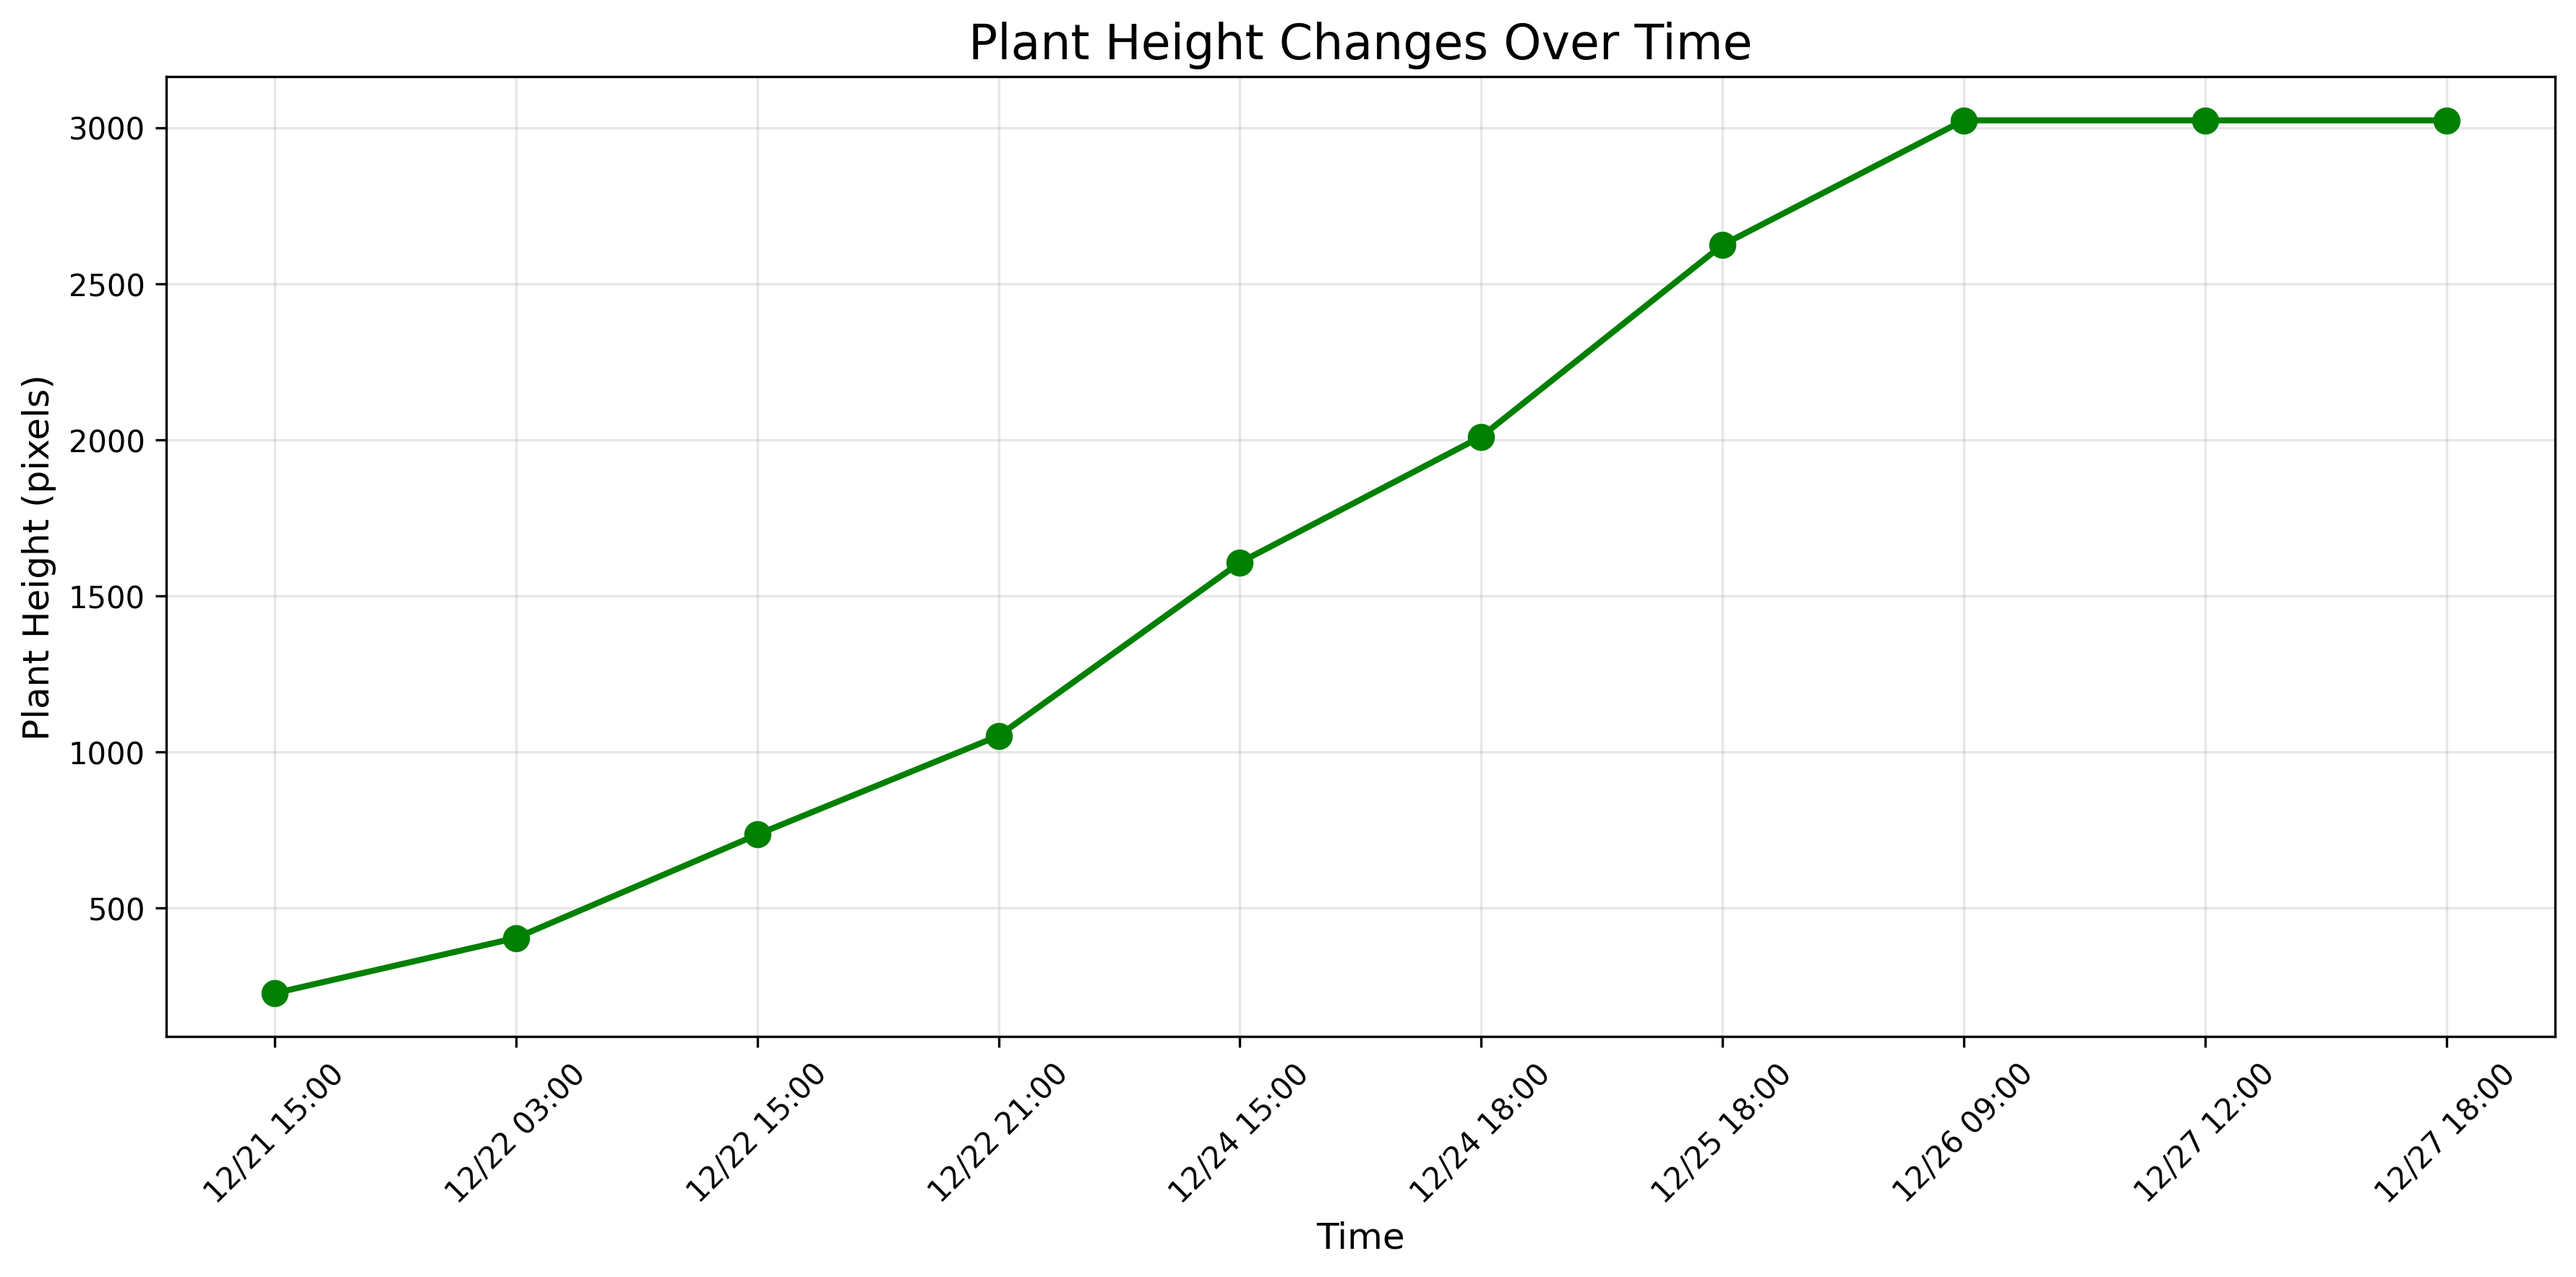
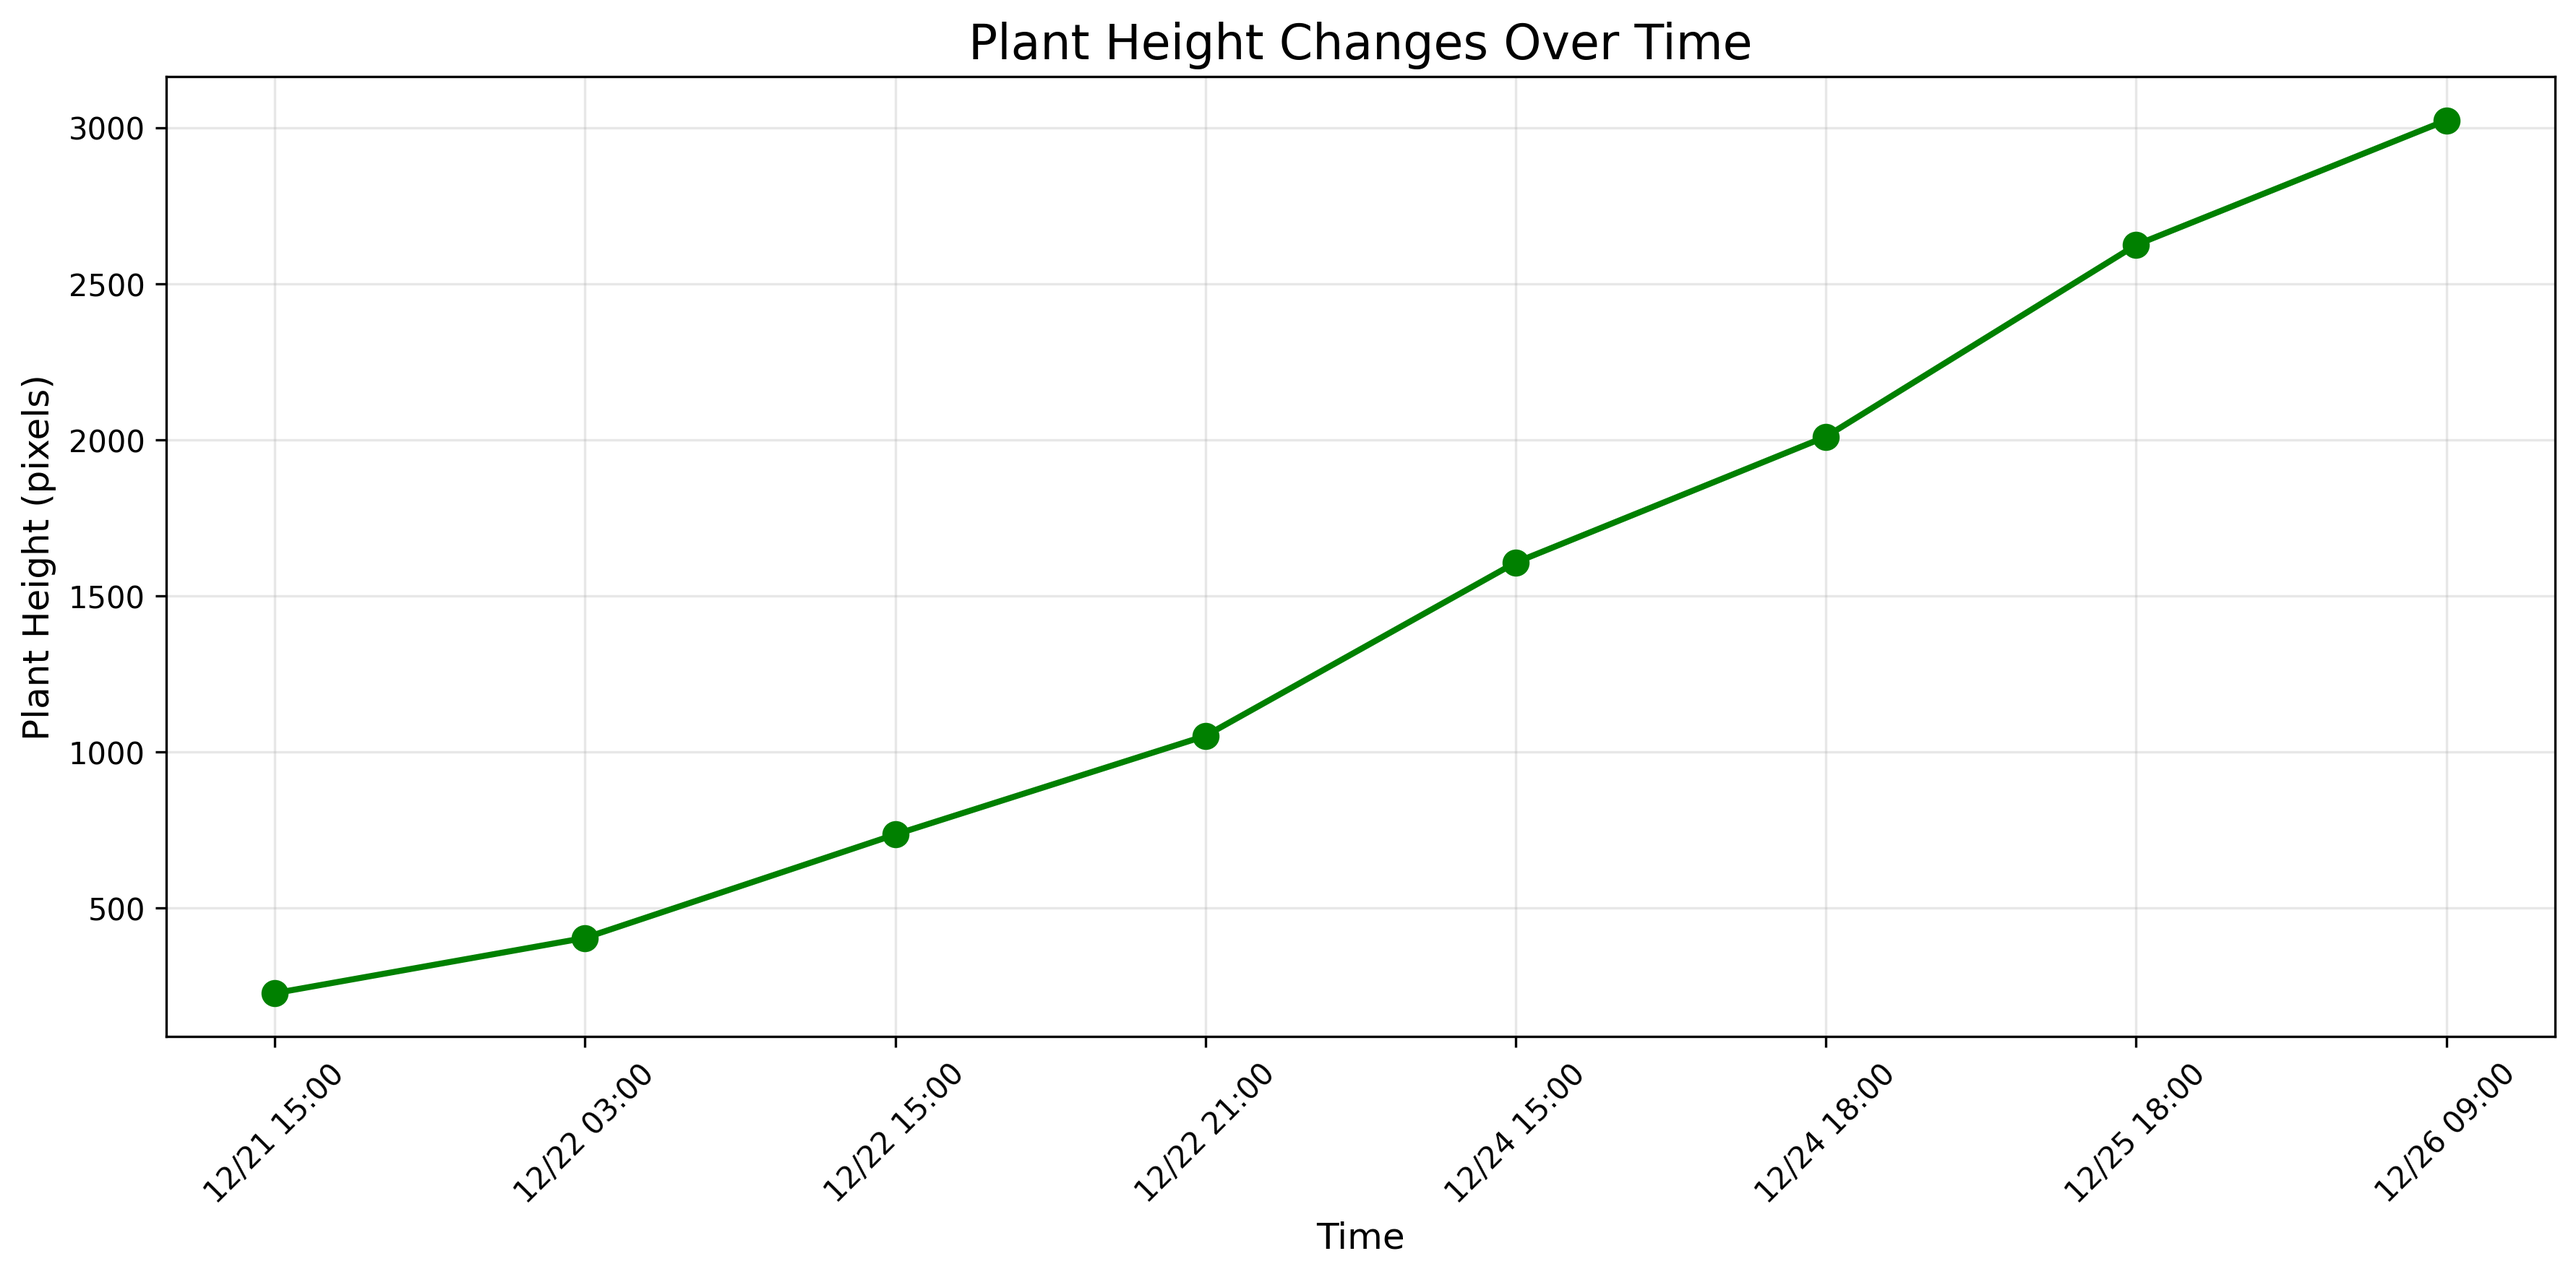
Restore Height File

diff --git a/Asset/Images/Selected images/height/results/website_integration.html b/Asset/Images/Selected images/height/results/website_integration.html
@@ -10,7 +10,7 @@
                     <th>Date</th>
                     <th>Height (px)</th>
                 </tr>
-                <tr><td>12/21 15:00</td><td>228</td></tr><tr><td>12/22 03:00</td><td>405</td></tr><tr><td>12/22 15:00</td><td>736</td></tr><tr><td>12/22 21:00</td><td>1052</td></tr><tr><td>12/24 15:00</td><td>1607</td></tr><tr><td>12/24 18:00</td><td>2010</td></tr><tr><td>12/25 18:00</td><td>2624</td></tr><tr><td>12/26 09:00</td><td>3023</td></tr><tr><td>12/27 12:00</td><td>3023</td></tr><tr><td>12/27 18:00</td><td>3023</td></tr>
+                <tr><td>12/21 15:00</td><td>228</td></tr><tr><td>12/22 03:00</td><td>405</td></tr><tr><td>12/22 15:00</td><td>736</td></tr><tr><td>12/22 21:00</td><td>1052</td></tr><tr><td>12/24 15:00</td><td>1607</td></tr><tr><td>12/24 18:00</td><td>2010</td></tr><tr><td>12/25 18:00</td><td>2624</td></tr><tr><td>12/26 09:00</td><td>3023</td></tr>
             </table>
         </div>
     </div>

diff --git a/Tests/Plant_Height.py b/Tests/Plant_Height.py
@@ -1,8 +1,11 @@
+import os
 import cv2
 import numpy as np
+import datetime
+import re
+import matplotlib.pyplot as plt
 
-
-def measure_plant_height(image_path):
+def measure_plant_height(image_path, display=True):
     # Load the image
     image = cv2.imread(image_path)
     if image is None:
@@ -27,7 +30,7 @@ def measure_plant_height(image_path):
     # Combine masks
     plant_mask = cv2.bitwise_or(green_mask, yellow_mask)
 
-    # Clean the mask (smaller kernel for thin seedlings)
+    # Clean the mask
     kernel_small = np.ones((2, 2), np.uint8)
     kernel_large = np.ones((5, 5), np.uint8)
     plant_mask = cv2.morphologyEx(plant_mask, cv2.MORPH_OPEN, kernel_small)
@@ -37,7 +40,7 @@ def measure_plant_height(image_path):
     contours, _ = cv2.findContours(plant_mask, cv2.RETR_EXTERNAL, cv2.CHAIN_APPROX_SIMPLE)
 
     if not contours:
-        print("No plant detected!")
+        print(f"No plant detected in {image_path}!")
         return None
 
     # Find the plant contour
@@ -46,157 +49,99 @@ def measure_plant_height(image_path):
     # Get plant bounding rectangle
     x, y, w, h = cv2.boundingRect(plant_contour)
 
-    # Check if this is a small seedling (for different processing)
-    is_small_plant = h < height * 0.2
+    # Get plant top and bottom points more precisely
+    # This helps get a more accurate height measurement
+    hull = cv2.convexHull(plant_contour)
+    top_y = min(point[0][1] for point in hull)
+    bottom_y = max(point[0][1] for point in hull)
 
-    # Get plant top (y-coordinate)
-    top_y = y
+    # Calculate actual plant height (either using bounding box or hull points)
+    plant_height = bottom_y - top_y
 
-    # Find plant center
-    M = cv2.moments(plant_contour)
-    if M["m00"] != 0:
-        center_x = int(M["m10"] / M["m00"])
-    else:
-        center_x = x + w // 2
+    # If hull measurement seems incorrect, fall back to bounding box
+    if plant_height < h * 0.7:
+        plant_height = h
 
-    # STEP 2: SPECIALIZED SOIL DETECTION
-    gray = cv2.cvtColor(image, cv2.COLOR_BGR2GRAY)
-    blurred = cv2.GaussianBlur(gray, (5, 5), 0)
-    edges = cv2.Canny(blurred, 30, 100)
-
-    # For small seedlings in glass pots, specifically target the soil line
-    if is_small_plant:
-        # Look specifically at the top edge of soil (right where pot begins)
-        soil_line_found = False
-
-        # Use the region right below plant to search for soil
-        search_start = y + h  # Bottom of plant
-        search_end = min(search_start + 30, height)  # Only look 30px below plant
-
-        # Method 1: Look for dark soil band
-        for sy in range(search_start, search_end, 1):
-            if sy >= height:
-                continue
-
-            # Check for soil color across a horizontal band
-            soil_pixels = 0
-            for sx in range(max(0, center_x - 30), min(width, center_x + 30)):
-                if sy < height and sx < width:
-                    pixel = image[sy, sx]
-                    # Brownish soil detection (red > blue, moderate brightness)
-                    if pixel[2] > pixel[0] and np.sum(pixel) < 450 and np.sum(pixel) > 50:
-                        soil_pixels += 1
-
-            # If enough soil pixels found in row
-            if soil_pixels > 15:
-                soil_y = sy
-                soil_line_found = True
-                break
-
-        # Method 2: Look for horizontal edge (soil surface or pot rim)
-        if not soil_line_found:
-            max_edge_strength = 0
-            strongest_edge_y = None
-
-            for sy in range(search_start, search_end, 1):
-                edge_row = edges[sy, max(0, center_x - 40):min(width, center_x + 40)]
-                edge_strength = np.sum(edge_row)
-
-                if edge_strength > max_edge_strength:
-                    max_edge_strength = edge_strength
-                    strongest_edge_y = sy
-
-            if max_edge_strength > 300 and strongest_edge_y is not None:
-                soil_y = strongest_edge_y
-                soil_line_found = True
-
-        # Method 3: Look for brightness transition
-        if not soil_line_found:
-            for sy in range(search_start, search_end, 1):
-                if sy + 5 < height and sy - 5 >= 0:
-                    above = np.mean(gray[sy - 5:sy, max(0, center_x - 20):min(width, center_x + 20)])
-                    below = np.mean(gray[sy:sy + 5, max(0, center_x - 20):min(width, center_x + 20)])
-
-                    if abs(above - below) > 20:
-                        soil_y = sy
-                        soil_line_found = True
-                        break
-
-        # Fallback: Use bottom of plant + small offset
-        if not soil_line_found:
-            soil_y = y + h + 5
-    else:
-        # For taller plants, use different soil detection approach
-        soil_y = None
-
-        # Start from midpoint of plant height
-        search_start = y + h // 2
-        search_end = min(y + h + 50, height - 10)
-
-        # Look for soil using color and texture
-        for sy in range(search_start, search_end, 2):
-            if sy >= height - 5:
-                continue
-
-            # Sample window around center line
-            window = image[sy:sy + 5, max(0, center_x - 20):min(width, center_x + 20)]
-
-            # Calculate color properties
-            if window.size > 0:
-                avg_color = np.mean(window, axis=(0, 1))
-
-                # Check for soil properties
-                if avg_color[2] > avg_color[0] and np.sum(avg_color) < 500:
-                    # Verify with texture check
-                    texture_above = np.std(gray[max(0, sy - 10):sy, max(0, center_x - 20):min(width, center_x + 20)])
-                    texture_below = np.std(
-                        gray[sy:min(height, sy + 10), max(0, center_x - 20):min(width, center_x + 20)])
-
-                    if abs(texture_above - texture_below) > 5:
-                        soil_y = sy
-                        break
-
-        # Fallback for tall plants
-        if soil_y is None:
-            soil_y = y + h * 2 // 3
-
-    # Ensure plant height is reasonable (with constraints)
-    plant_height = soil_y - top_y
-
-    # Sanity check - if height is unreasonable, use bounding box with offset
-    min_reasonable = 10
-    max_reasonable = height * 0.7
-
-    if plant_height < min_reasonable or plant_height > max_reasonable:
-        if is_small_plant:
-            soil_y = y + h + 5  # Small offset for small plants
-        else:
-            soil_y = y + h * 2 // 3  # Proportional for tall plants
-        plant_height = soil_y - top_y
-
-    # Draw the measurement visualization
-    cv2.line(result_image, (center_x, top_y), (center_x, soil_y), (0, 0, 255), 2)
-    cv2.circle(result_image, (center_x, top_y), 5, (255, 0, 0), -1)
-    cv2.circle(result_image, (center_x, soil_y), 5, (255, 0, 0), -1)
-
-    # Add text with height information
-    cv2.putText(result_image, f"Plant Height: {plant_height} pixels",
-                (10, 40), cv2.FONT_HERSHEY_SIMPLEX, 1.0, (0, 0, 255), 2)
-
-    # Resize for display
-    display_scale = min(1, 800 / max(width, height))
-    resized_image = cv2.resize(result_image, None,
-                               fx=display_scale,
-                               fy=display_scale,
-                               interpolation=cv2.INTER_AREA)
-
-    # Display result
-    cv2.imshow("Plant Height", resized_image)
+    # Output the height without classification
     print(f"Plant height: {plant_height} pixels")
-    cv2.waitKey(0)
-    cv2.destroyAllWindows()
+
+    if display:
+        # Draw the measurement visualization
+        center_x = x + w // 2
+        cv2.line(result_image, (center_x, top_y), (center_x, bottom_y), (0, 0, 255), 2)
+        cv2.circle(result_image, (center_x, top_y), 5, (255, 0, 0), -1)
+        cv2.circle(result_image, (center_x, bottom_y), 5, (255, 0, 0), -1)
+        cv2.rectangle(result_image, (x, y), (x + w, y + h), (0, 255, 0), 2)
+
+        # Add text with height information
+        cv2.putText(result_image, f"Height: {plant_height}px",
+                    (10, 30), cv2.FONT_HERSHEY_SIMPLEX, 0.7, (0, 0, 255), 2)
+
+        # Save annotated image for website display
+        output_dir = os.path.join(os.path.dirname(image_path), "annotated")
+        os.makedirs(output_dir, exist_ok=True)
+        output_path = os.path.join(output_dir, os.path.basename(image_path))
+        cv2.imwrite(output_path, result_image)
+
+        # Resize for display
+        display_scale = min(1, 800 / max(width, height))
+        resized_image = cv2.resize(result_image, None,
+                                   fx=display_scale,
+                                   fy=display_scale,
+                                   interpolation=cv2.INTER_AREA)
+        # Save resized image
+        resized_dir = os.path.join(os.path.dirname(image_path), "resized")
+        os.makedirs(resized_dir, exist_ok=True)
+        resized_path = os.path.join(resized_dir, f"resized_{os.path.basename(image_path)}")
+        cv2.imwrite(resized_path, resized_image)
+
+        # Display result
+        cv2.imshow("Plant Height", resized_image)
+        cv2.waitKey(0)
+        cv2.destroyAllWindows()
 
     return plant_height
 
-# Example usage
-measure_plant_height('Asset/Images/Selected images/height/2024_12_25_06PM.JPG')
+
+def extract_date_from_filename(filename):
+    """Extract date from filename with format YYYY_MM_DD_XXAM/PM.JPG"""
+    pattern = r'(\d{4})_(\d{2})_(\d{2})_(\d{2})([AP]M)'
+    match = re.search(pattern, filename)
+
+    if match:
+        year = int(match.group(1))
+        month = int(match.group(2))
+        day = int(match.group(3))
+        hour = int(match.group(4))
+        am_pm = match.group(5)
+
+        # Adjust hour for PM
+        if am_pm == 'PM' and hour < 12:
+            hour += 12
+        elif am_pm == 'AM' and hour == 12:
+            hour = 0
+
+        # Create datetime object
+        date_obj = datetime.datetime(year, month, day, hour)
+        return date_obj, f"{month}/{day} {hour:02d}:00"
+
+    return None, None
+
+
+# Main execution
+if __name__ == "__main__":
+    # Path to a single selected image
+    image_path = "Asset/Images/Selected images/height/2024_12_26_09AM.JPG"  # Replace with your selected image path
+    
+    # Extract date from filename
+    date_obj, date_label = extract_date_from_filename(os.path.basename(image_path))
+    if date_obj is None:
+        print(f"Could not extract date from {image_path}, skipping")
+    else:
+        # Measure plant height for the selected image
+        height = measure_plant_height(image_path, display=True)
+
+        if height is not None:
+            print(f"Height: {height} pixels, Date: {date_label}")
+        else:
+            print("Could not measure plant height")

diff --git a/Tests/.ipynb_checkpoints/Health_Analysis-checkpoint.py b/Tests/.ipynb_checkpoints/Health_Analysis-checkpoint.py
@@ -1,0 +1,52 @@
+import cv2
+import numpy as np
+import matplotlib.pyplot as plt
+import os
+
+health_scores = []
+dates = []
+
+def analyze_leaf_health(image_path):
+    image = cv2.imread(image_path)
+    hsv = cv2.cvtColor(image, cv2.COLOR_BGR2HSV)
+
+    # Define color ranges
+    green_lower = np.array([35, 50, 50])
+    green_upper = np.array([85, 255, 255])
+    green_mask = cv2.inRange(hsv, green_lower, green_upper)
+
+    yellow_lower = np.array([20, 100, 100])
+    yellow_upper = np.array([35, 255, 255])
+    yellow_mask = cv2.inRange(hsv, yellow_lower, yellow_upper)
+
+    green_pixels = cv2.countNonZero(green_mask)
+    yellow_pixels = cv2.countNonZero(yellow_mask)
+    total = green_pixels + yellow_pixels
+
+    return green_pixels / total if total != 0 else 0
+
+# Process images
+folder_path = "Asset/Images/Selected images/health"
+for filename in sorted(os.listdir(folder_path)):
+    if filename.lower().endswith(".jpg"):
+        score = analyze_leaf_health(os.path.join(folder_path, filename))
+        health_scores.append(score)
+        dates.append(filename.split(".")[0])  # Extract date from filename
+
+# Generate and save plot
+plt.figure(figsize=(10, 5))
+plt.plot(dates, health_scores, marker='o', color='green')
+plt.title("Plant Health Over Time")
+plt.xlabel("Date")
+plt.ylabel("Health Score (0 to 1)")
+plt.ylim(0, 1)
+plt.grid(True)
+plt.xticks(rotation=45)
+plt.tight_layout()
+
+# Save plot to health folder
+plot_path = os.path.join(folder_path, "plant_health_plot.png")
+plt.savefig(plot_path, bbox_inches='tight')
+plt.close()
+
+print(f"Plot saved successfully at: {plot_path}")
